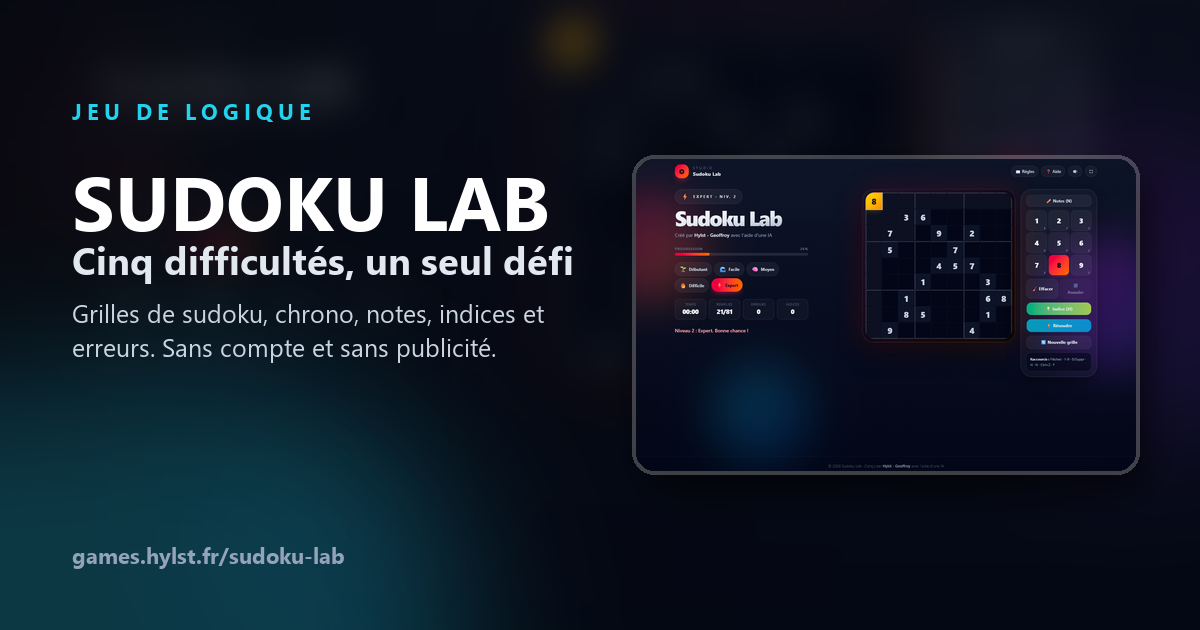
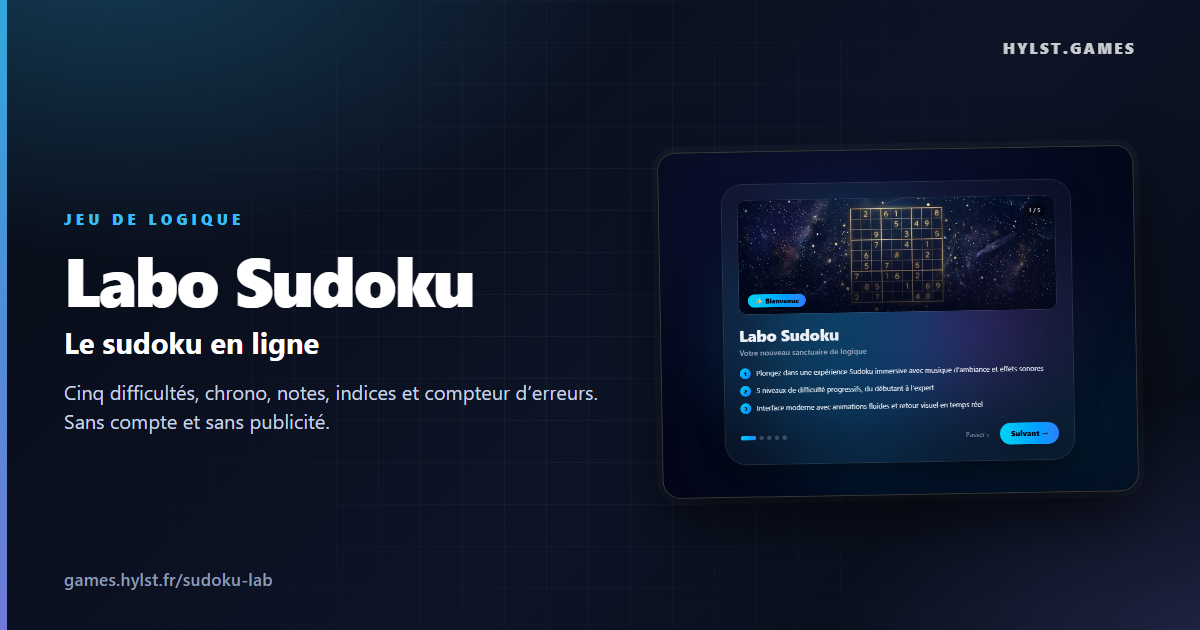
Renommage : Labo Sudoku

diff --git a/index.html b/index.html
@@ -3,20 +3,20 @@
   <head>
     <meta charset="UTF-8" />
     <meta name="viewport" content="width=device-width, initial-scale=1.0" />
-    <title>Sudoku Lab : le sudoku en ligne, cinq difficultés</title>
-    <meta name="description" content="Sudoku Lab : des grilles de sudoku, cinq difficultés, chrono, notes, indices et compteur d'erreurs. Sans compte, sans publicité, dans le navigateur." />
+    <title>Labo Sudoku : le sudoku en ligne, cinq difficultés</title>
+    <meta name="description" content="Labo Sudoku : des grilles de sudoku, cinq difficultés, chrono, notes, indices et compteur d'erreurs. Sans compte, sans publicité, dans le navigateur." />
     <meta name="keywords" content="sudoku, sudoku en ligne, jeu de logique, puzzle, grilles, indices, jeu gratuit, jeu français, hylst" />
     <meta property="og:type" content="website" />
-    <meta property="og:title" content="Sudoku Lab : le sudoku en ligne" />
+    <meta property="og:title" content="Labo Sudoku : le sudoku en ligne" />
     <meta property="og:description" content="Cinq difficultés, chrono, notes, indices et erreurs. Sans compte et sans publicité." />
-    <meta property="og:image" content="https://games.hylst.fr/sudoku-lab/og-image.png" />
+    <meta property="og:image" content="https://games.hylst.fr/sudoku-lab/og-image.png?v=2" />
     <meta property="og:url" content="https://games.hylst.fr/sudoku-lab/" />
     <meta property="og:site_name" content="Hylst.Games" />
     <meta property="og:locale" content="fr_FR" />
     <meta name="twitter:card" content="summary_large_image" />
-    <meta name="twitter:title" content="Sudoku Lab : le sudoku en ligne" />
+    <meta name="twitter:title" content="Labo Sudoku : le sudoku en ligne" />
     <meta name="twitter:description" content="Cinq difficultés, chrono, notes, indices et erreurs. Sans compte et sans publicité." />
-    <meta name="twitter:image" content="https://games.hylst.fr/sudoku-lab/og-image.png" />
+    <meta name="twitter:image" content="https://games.hylst.fr/sudoku-lab/og-image.png?v=2" />
     <meta name="robots" content="index, follow" />
     <meta name="theme-color" content="#0b1020" />
     <link rel="canonical" href="https://games.hylst.fr/sudoku-lab/" />
@@ -27,7 +27,7 @@
     <div id="root"></div>
     <noscript>
       <p style="margin: 2rem auto; max-width: 34rem; padding: 0 1rem; color: #e2e8f0; font: 16px/1.6 system-ui, sans-serif">
-        Sudoku Lab a besoin de JavaScript pour fonctionner. Activez-le puis rechargez la page.
+        Labo Sudoku a besoin de JavaScript pour fonctionner. Activez-le puis rechargez la page.
       </p>
     </noscript>
     <script type="module" src="/src/main.tsx"></script>

diff --git a/src/App.tsx b/src/App.tsx
@@ -381,7 +381,7 @@ export default function App() {
           </div>
           <div>
             <p className="text-[10px] uppercase tracking-[0.4em] text-slate-500">Studio</p>
-            <p className="text-sm font-bold tracking-wide text-slate-200">Sudoku Lab</p>
+            <p className="text-sm font-bold tracking-wide text-slate-200">Labo Sudoku</p>
           </div>
         </div>
         <div className="flex items-center gap-2 text-xs">
@@ -407,7 +407,7 @@ export default function App() {
               {DIFFICULTY_LABELS[difficulty]} · Niv. {level}
             </div>
             <h1 className="sudoku-rise bg-gradient-to-br from-white via-slate-200 to-slate-400 bg-clip-text text-4xl font-black leading-[0.9] tracking-[-0.06em] text-transparent sm:text-6xl">
-              Sudoku Lab
+              Labo Sudoku
             </h1>
             <p className="max-w-sm text-sm leading-6 text-slate-400">
               Créé par <span className="font-semibold text-slate-200">Hylst - Geoffroy</span> avec l'aide d'une IA
@@ -602,7 +602,7 @@ export default function App() {
       </section>
 
       <footer className="relative z-10 border-t border-white/5 px-4 py-5 text-center text-[11px] text-slate-600 sm:px-8">
-        © {new Date().getFullYear()} Sudoku Lab · Conçu par{" "}
+        © {new Date().getFullYear()} Labo Sudoku · Conçu par{" "}
         <span className="font-semibold text-slate-400">Hylst - Geoffroy</span> avec l'aide d'une IA
       </footer>
 

diff --git a/src/Onboarding.tsx b/src/Onboarding.tsx
@@ -24,7 +24,7 @@ const SLIDES: SlideData[] = [
   {
     image: imgWelcome,
     badge: "✨ Bienvenue",
-    title: "Sudoku Lab",
+    title: "Labo Sudoku",
     subtitle: "Votre nouveau sanctuaire de logique",
     bullets: [
       "Plongez dans une expérience Sudoku immersive avec musique d'ambiance et effets sonores",

diff --git a/README.md b/README.md
@@ -1,12 +1,12 @@
-# Sudoku Lab
+# Labo Sudoku
 
 **Le sudoku en ligne, cinq difficultés, sans compte.**
 
-Sudoku Lab propose des grilles de sudoku jouables au clavier, à la souris ou au doigt, réparties en cinq difficultés : débutant, facile, moyen, difficile et expert. Le chrono démarre avec la grille, le mode notes permet de poser des candidats, les indices remplissent une case et le compteur d'erreurs signale les conflits. La progression, les cases fixes et les commandes clavier sont expliquées dans un onboarding illustré. Le son est synthétisé dans le navigateur.
+Labo Sudoku propose des grilles de sudoku jouables au clavier, à la souris ou au doigt, réparties en cinq difficultés : débutant, facile, moyen, difficile et expert. Le chrono démarre avec la grille, le mode notes permet de poser des candidats, les indices remplissent une case et le compteur d'erreurs signale les conflits. La progression, les cases fixes et les commandes clavier sont expliquées dans un onboarding illustré. Le son est synthétisé dans le navigateur.
 
 Joue ici : [games.hylst.fr/sudoku-lab/](https://games.hylst.fr/sudoku-lab/)
 
-![Sudoku Lab](public/og-image.png)
+![Labo Sudoku](public/og-image.png)
 
 ## Fonctionnalités
 
